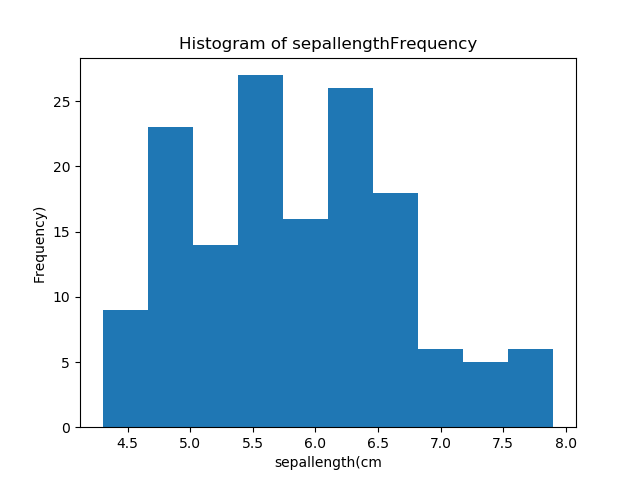
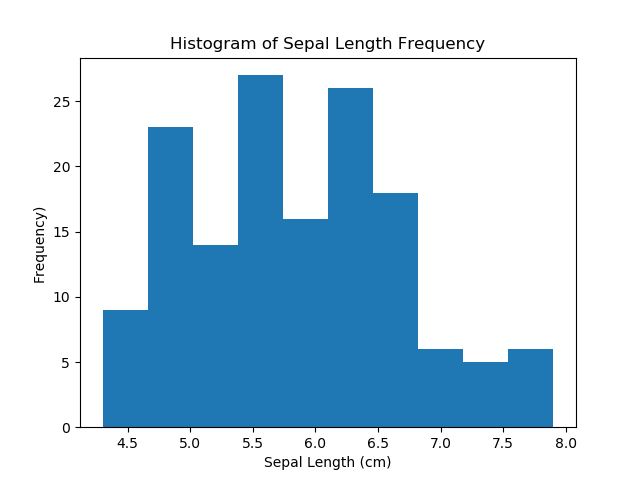
Histogram for loop now formats the titles and axis labels better (includes a space).

Changed region(s): [[0.25, 0.0625, 0.75, 0.125], [0.4062, 0.9375, 0.625, 1.0]]

diff --git a/irisAnalysis.py b/irisAnalysis.py
@@ -61,10 +61,16 @@ plt.title("Sepal Width vs Petal Width (cm)")
 plt.savefig("sepalWidthVsPetalWidth.png")
 plt.clf()
 
+# Got the idea to iterate through column names from https://www.marsja.se/how-to-get-the-column-names-from-a-pandas-dataframe-print-and-list/#3_Get_Column_Names_by_Iterating_of_the_Columns
+# Column names without the space looks odd. Figure if I can get past the "l" in Sepal and Petal, and split it into 2 strings with a space in the middle, it'll look neater.
 for measurement in df.columns:
     plt.hist(df[measurement])
-    plt.xlabel(measurement + '(cm')
+    space = measurement.find("l") + 1
+    firsthalf = measurement[:space]
+    secondhalf = measurement[space:]
+    name = firsthalf.capitalize() + " " + secondhalf.capitalize()
+    plt.xlabel(name + ' (cm)')
     plt.ylabel ("Frequency)")
-    plt.title("Histogram of " + measurement + "Frequency")
+    plt.title("Histogram of " + name + " Frequency")
     plt.savefig(measurement +"Hist.png")
     plt.clf()
